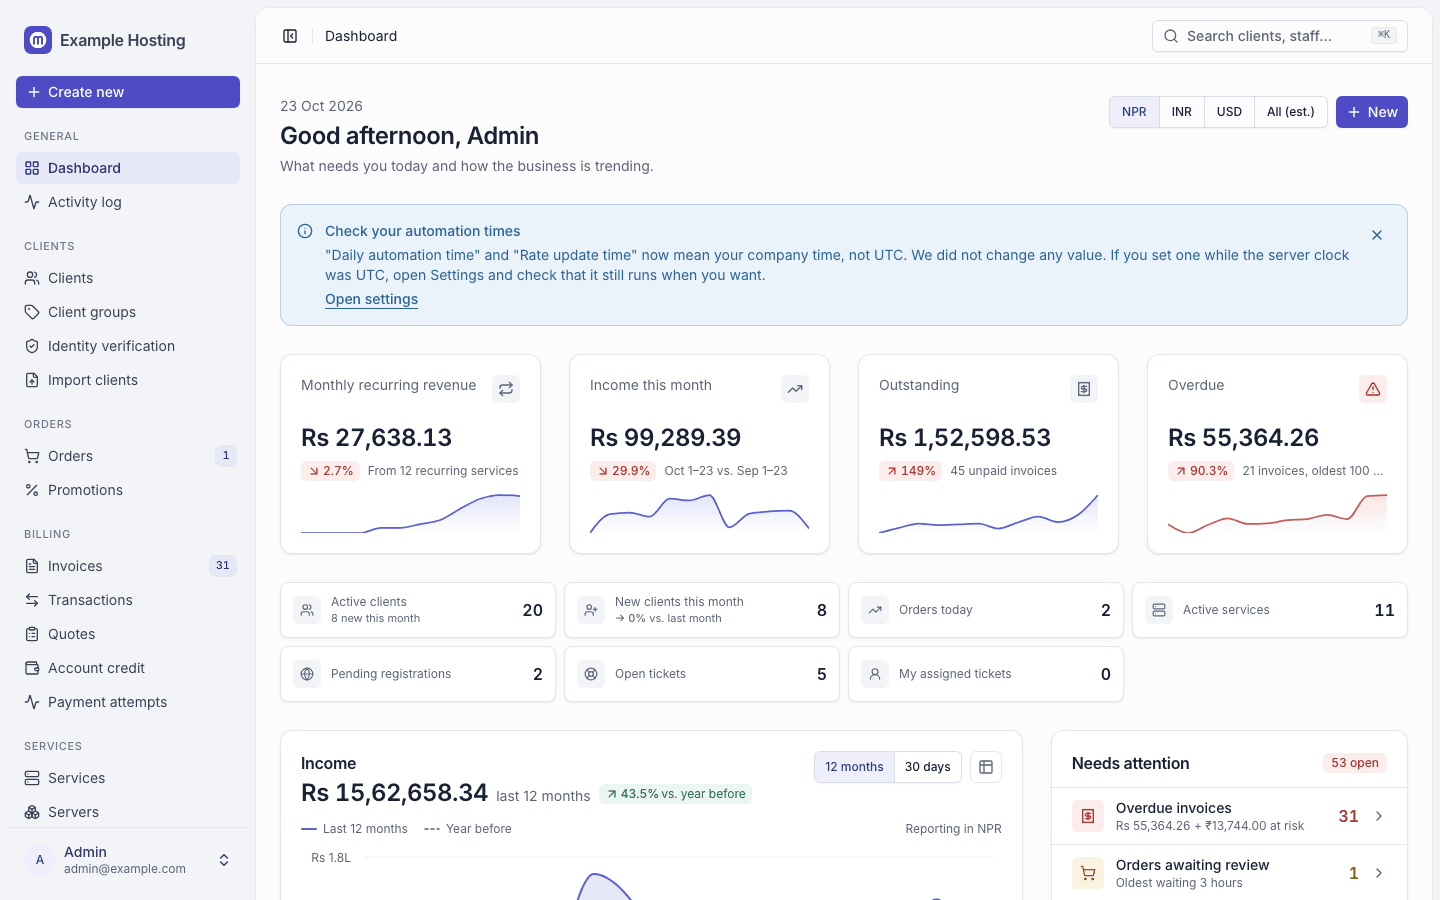
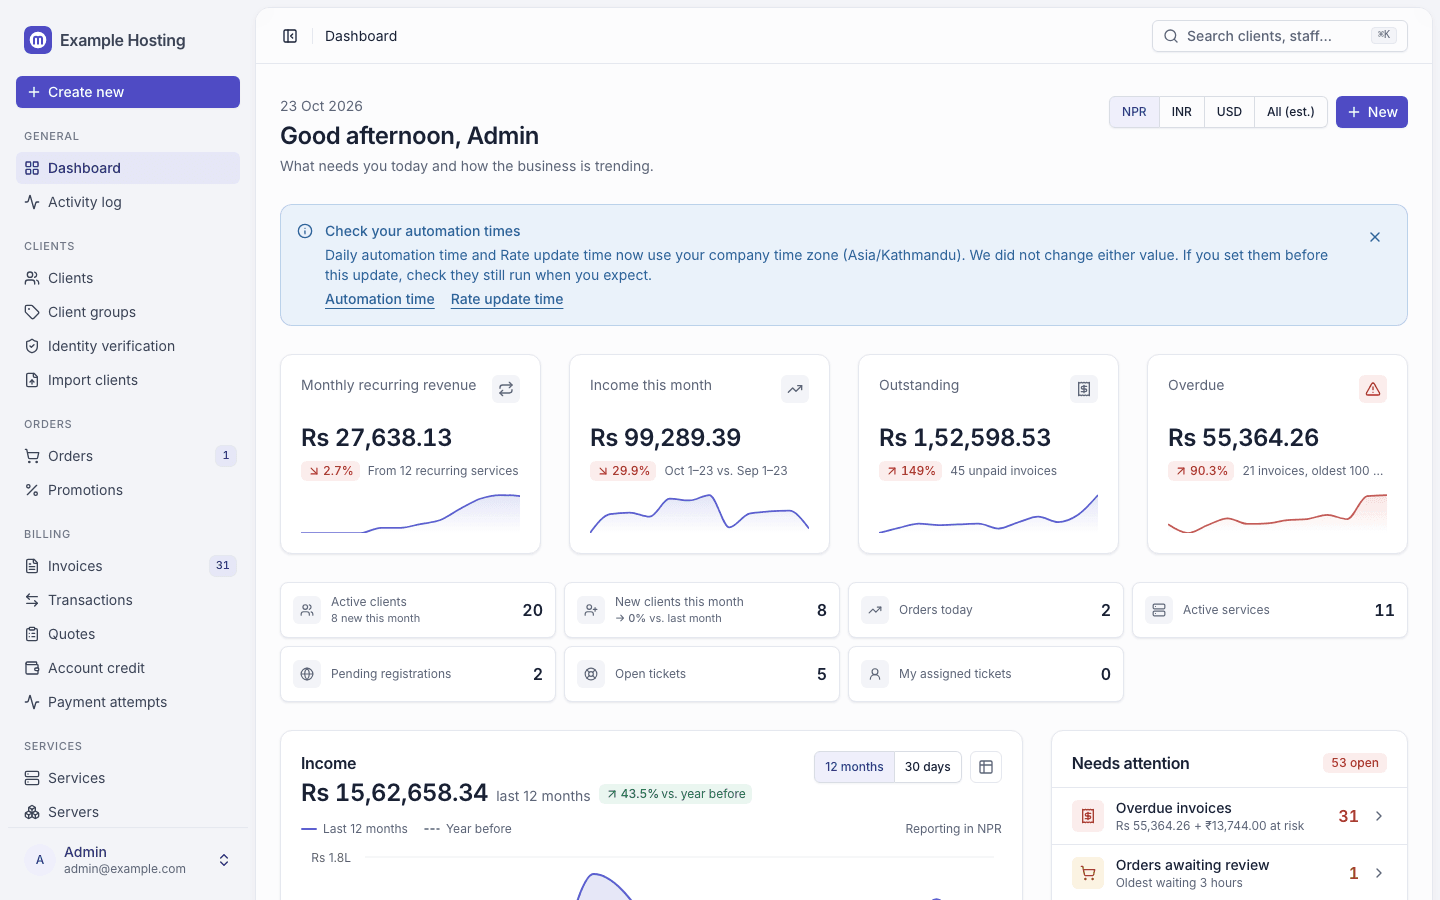
fix(core): two named settings links, plain notice text, 404 for unknown notices, per-notice audience (#341, #342)

Changed region(s): [[0.2188, 0.28, 0.9375, 0.3422]]

diff --git a/billing/resources/js/components/app/staff-notices.tsx b/billing/resources/js/components/app/staff-notices.tsx
@@ -8,7 +8,7 @@ export type StaffNoticeItem = {
     key: string;
     title: string;
     body: string;
-    href: string | null;
+    links: { label: string; href: string }[];
 };
 
 /** One-time messages for the signed-in staff member; dismissing one hides it for that person only. */
@@ -32,26 +32,40 @@ export function StaffNotices({ notices }: { notices: StaffNoticeItem[] }) {
                     <div className="min-w-0 flex-1 space-y-1 text-sm">
                         <h2 className="font-medium">{notice.title}</h2>
                         <p>{notice.body}</p>
-                        {notice.href && (
-                            <Link
-                                href={notice.href}
-                                className="inline-block font-medium underline underline-offset-4"
-                            >
-                                Open settings
-                            </Link>
+                        {notice.links.length > 0 && (
+                            <p className="flex flex-wrap gap-x-4 gap-y-1">
+                                {notice.links.map((link) => (
+                                    <Link
+                                        key={link.href}
+                                        href={link.href}
+                                        className="font-medium underline underline-offset-4"
+                                    >
+                                        {link.label}
+                                    </Link>
+                                ))}
+                            </p>
                         )}
                     </div>
                     <Button
                         type="button"
                         variant="ghost"
                         size="icon"
-                        className="size-7 shrink-0"
+                        className="size-10 shrink-0 sm:size-8"
                         aria-label={`Dismiss: ${notice.title}`}
                         onClick={() =>
                             router.post(
                                 StaffNoticeController.dismiss(notice.key),
                                 {},
-                                { preserveScroll: true },
+                                {
+                                    preserveScroll: true,
+                                    onSuccess: () => {
+                                        // Keep the reader's place: move focus to the page heading.
+                                        const heading =
+                                            document.querySelector('h1');
+                                        heading?.setAttribute('tabindex', '-1');
+                                        heading?.focus();
+                                    },
+                                },
                             )
                         }
                     >

diff --git a/billing/app/Modules/Core/Http/Controllers/Admin/DashboardController.php b/billing/app/Modules/Core/Http/Controllers/Admin/DashboardController.php
@@ -2,7 +2,9 @@
 
 namespace App\Modules\Core\Http\Controllers\Admin;
 
+use App\Contracts\Core\CompanyClock;
 use App\Http\Controllers\Controller;
+use App\Models\User;
 use App\Modules\Core\Models\StaffNotice;
 use App\Support\Dashboard\Dashboard;
 use Illuminate\Http\Request;
@@ -17,6 +19,8 @@ use Inertia\Response;
  */
 class DashboardController extends Controller
 {
+    public function __construct(private readonly CompanyClock $clock) {}
+
     public function __invoke(Request $request, Dashboard $dashboard): Response
     {
         $user = $request->user();
@@ -31,31 +35,47 @@ class DashboardController extends Controller
     }
 
     /**
-     * @return list<array{key: string, title: string, body: string, href: string|null}>
+     * @return list<array{key: string, title: string, body: string, links: list<array{label: string, href: string}>}>
      */
     private function notices(Request $request): array
     {
         $user = $request->user();
 
-        if ($user === null || ! $user->hasPermission('core.settings.update')) {
+        if ($user === null) {
             return [];
         }
 
         $pending = StaffNotice::query()
             ->where('user_id', $user->id)
-            ->where('notice', StaffNotice::COMPANY_TIME_SETTINGS)
             ->whereNull('dismissed_at')
-            ->exists();
+            ->pluck('notice')
+            ->filter(fn (string $notice): bool => StaffNotice::exists($notice) && $user->hasPermission((string) StaffNotice::permissionFor($notice)));
 
-        if (! $pending) {
-            return [];
+        return $pending->map(fn (string $notice): array => match ($notice) {
+            StaffNotice::COMPANY_TIME_SETTINGS => $this->companyTimeNotice($user),
+        })->values()->all();
+    }
+
+    /**
+     * @return array{key: string, title: string, body: string, links: list<array{label: string, href: string}>}
+     */
+    private function companyTimeNotice(User $user): array
+    {
+        $links = [];
+
+        if (Route::has('admin.platform.settings.edit')) {
+            $links[] = ['label' => __('Automation time'), 'href' => route('admin.platform.settings.edit', 'company')];
+
+            if ($user->hasPermission('core.currencies.rates')) {
+                $links[] = ['label' => __('Rate update time'), 'href' => route('admin.platform.settings.edit', 'exchange_rates')];
+            }
         }
 
-        return [[
+        return [
             'key' => StaffNotice::COMPANY_TIME_SETTINGS,
             'title' => __('Check your automation times'),
-            'body' => __('"Daily automation time" and "Rate update time" now mean your company time, not UTC. We did not change any value. If you set one while the server clock was UTC, open Settings and check that it still runs when you want.'),
-            'href' => Route::has('admin.platform.settings.edit') ? route('admin.platform.settings.edit', 'company') : null,
-        ]];
+            'body' => __('Daily automation time and Rate update time now use your company time zone (:zone). We did not change either value. If you set them before this update, check they still run when you expect.', ['zone' => $this->clock->timezone()]),
+            'links' => $links,
+        ];
     }
 }

diff --git a/billing/tests/Feature/Core/StaffNoticeTest.php b/billing/tests/Feature/Core/StaffNoticeTest.php
@@ -20,11 +20,29 @@ it('shows the company-time notice to staff who can change settings until they di
     $this->get(route('admin.dashboard'))->assertInertia(fn (Assert $page) => $page
         ->has('notices', 1)
         ->where('notices.0.key', 'company_time_settings')
-        ->where('notices.0.body', fn (string $body) => str_contains($body, 'company time') && str_contains($body, 'did not change any value')));
+        ->where('notices.0.body', fn (string $body) => str_contains($body, 'company time zone (UTC)') && str_contains($body, 'did not change either value') && ! str_contains($body, 'server'))
+        ->has('notices.0.links', 1)
+        ->where('notices.0.links.0.label', 'Automation time'));
 
     $this->post(route('admin.notices.dismiss', 'company_time_settings'))->assertRedirect();
 
     $this->get(route('admin.dashboard'))->assertInertia(fn (Assert $page) => $page->has('notices', 0));
+});
+
+it('links Rate update time only to staff who can change exchange rates', function () {
+    $user = actingAsStaff(['core.settings.update', 'core.currencies.rates']);
+    noticeFor($user);
+
+    $this->get(route('admin.dashboard'))->assertInertia(fn (Assert $page) => $page
+        ->has('notices.0.links', 2)
+        ->where('notices.0.links.1.label', 'Rate update time')
+        ->where('notices.0.links.1.href', route('admin.platform.settings.edit', 'exchange_rates')));
+});
+
+it('returns 404 for a notice that does not exist', function () {
+    actingAsStaff();
+
+    $this->post(route('admin.notices.dismiss', 'no_such_notice'))->assertNotFound();
 });
 
 it('dismisses the notice for the signed-in person only', function () {
@@ -57,6 +75,6 @@ it('puts a daylight-saving help line on the automation time setting', function (
 
     $this->get(route('admin.platform.settings.edit', 'company'))
         ->assertInertia(fn (Assert $page) => $page->where('section.fields', fn ($settings) => collect($settings)->contains(
-            fn ($setting) => $setting['key'] === 'core.automation_time' && str_contains($setting['help'], 'daylight saving') && str_contains($setting['help'], 'Nepal'),
+            fn ($setting) => $setting['key'] === 'core.automation_time' && str_contains($setting['help'], 'daylight saving') && str_contains($setting['help'], 'Nepal time are never skipped'),
         )));
 });

diff --git a/billing/app/Modules/Core/CoreServiceProvider.php b/billing/app/Modules/Core/CoreServiceProvider.php
@@ -184,7 +184,7 @@ class CoreServiceProvider extends ModuleServiceProvider
             new SettingDefinition('core.default_country', 'Default country', help: 'Two-letter ISO code pre-selected for new clients.', rules: ['required', 'size:2', 'alpha']),
             new SettingDefinition('system.timezone', 'Company time zone', 'select', 'What "today" means for due dates and overdue days, and the time zone dates and times are shown in. The daily run starts at the company time set below. Changing it moves the day boundary once.', options: array_combine(RegionalDefaults::timezones(), RegionalDefaults::timezones()), rules: ['timezone:all']),
             new SettingDefinition('core.date_format', 'Date format', 'select', options: DateFormats::OPTIONS),
-            new SettingDefinition('core.automation_time', 'Daily automation time', help: 'Company time (HH:MM, in the time zone above) when the daily automation pipeline runs. In a time zone with daylight saving, the run can be skipped or happen twice on the day the clocks change. Nepal has no daylight saving, so this does not affect it.', rules: ['required', 'date_format:H:i']),
+            new SettingDefinition('core.automation_time', 'Daily automation time', help: 'Company time (HH:MM, in the time zone above) when the daily automation pipeline runs. In a time zone with daylight saving, the run can be skipped or happen twice on the day the clocks change. Nepal has no daylight saving, so runs in Nepal time are never skipped or repeated.', rules: ['required', 'date_format:H:i']),
             // Shown in the public site footer (Storefront); legal name, address, phone and tax numbers are the invoice seller details.
             new SettingDefinition('core.support_email', 'Support email address', 'email', 'Shown on the website for questions and "Contact us". Empty uses the billing address.', rules: ['nullable', 'email', 'max:150']),
             new SettingDefinition('core.support_hours', 'Support hours', help: 'Shown in the website footer, e.g. "Sunday–Friday, 9:00–18:00 (Nepal time). Tickets every day."', rules: ['nullable', 'string', 'max:160']),

diff --git a/billing/app/Modules/Core/Models/StaffNotice.php b/billing/app/Modules/Core/Models/StaffNotice.php
@@ -18,6 +18,26 @@ class StaffNotice extends Model
     /** Added in the upgrade that made the automation times company time (#337). */
     public const COMPANY_TIME_SETTINGS = 'company_time_settings';
 
+    /**
+     * Who may see and dismiss each notice: a permission per notice key. A key that is not here does not exist.
+     *
+     * @var array<string, string>
+     */
+    private const AUDIENCE = [
+        self::COMPANY_TIME_SETTINGS => 'core.settings.update',
+    ];
+
+    public static function exists(string $notice): bool
+    {
+        return isset(self::AUDIENCE[$notice]);
+    }
+
+    /** The permission a staff member needs to see and dismiss the notice. */
+    public static function permissionFor(string $notice): ?string
+    {
+        return self::AUDIENCE[$notice] ?? null;
+    }
+
     protected function casts(): array
     {
         return ['dismissed_at' => 'datetime'];

diff --git a/billing/app/Modules/Core/Http/Controllers/Admin/StaffNoticeController.php b/billing/app/Modules/Core/Http/Controllers/Admin/StaffNoticeController.php
@@ -12,7 +12,8 @@ class StaffNoticeController extends Controller
     /** Dismisses a notice for the signed-in person only. */
     public function dismiss(Request $request, string $notice): RedirectResponse
     {
-        $this->authorize('core.settings.update');
+        abort_unless(StaffNotice::exists($notice), 404);
+        $this->authorize(StaffNotice::permissionFor($notice));
 
         StaffNotice::query()
             ->where('user_id', $request->user()->id)

diff --git a/billing/changelog.md b/billing/changelog.md
@@ -14,7 +14,7 @@ The format follows [Keep a Changelog](https://keepachangelog.com/en/1.1.0/) and 
 
 ### Added
 
-- **A one-time notice about the automation times, and a daylight-saving help line (#341, #342).** After upgrading, staff who can change settings (`core.settings.update`) see a dismissible notice on the admin dashboard: **Daily automation time** and **Rate update time** now mean company time, no value was converted, and they should check both. Dismissing it hides it for that person only; staff added after the upgrade and fresh installs never see it. **Daily automation time** now says that in a time zone with daylight saving the run can be skipped or happen twice on the day the clocks change (Nepal has none). Upgrade notes: new table `staff_notices` (one row per existing staff member); no new permission.
+- **A one-time notice about the automation times, and a daylight-saving help line (#341, #342).** After upgrading, staff who can change settings (`core.settings.update`) see a dismissible notice on the admin dashboard: **Daily automation time** and **Rate update time** now mean company time, no value was converted, and they should check both. Dismissing it hides it for that person only; staff added after the upgrade and fresh installs never see it. **Daily automation time** now says that in a time zone with daylight saving the run can be skipped or happen twice on the day the clocks change (Nepal has none, so Nepal-time runs are never skipped or repeated). A notice that does not exist returns 404 on dismiss, and each notice has its own audience permission. Upgrade notes: new table `staff_notices` (one row per existing staff member); no new permission.
 
 - **Report registry and one export pipeline (ADR 0025, VAT PR 0c).** Modules and packages can now register reports
   (`ReportRegistry`) and export them as CSV or PDF through one path that checks the permission, limits the size, and
